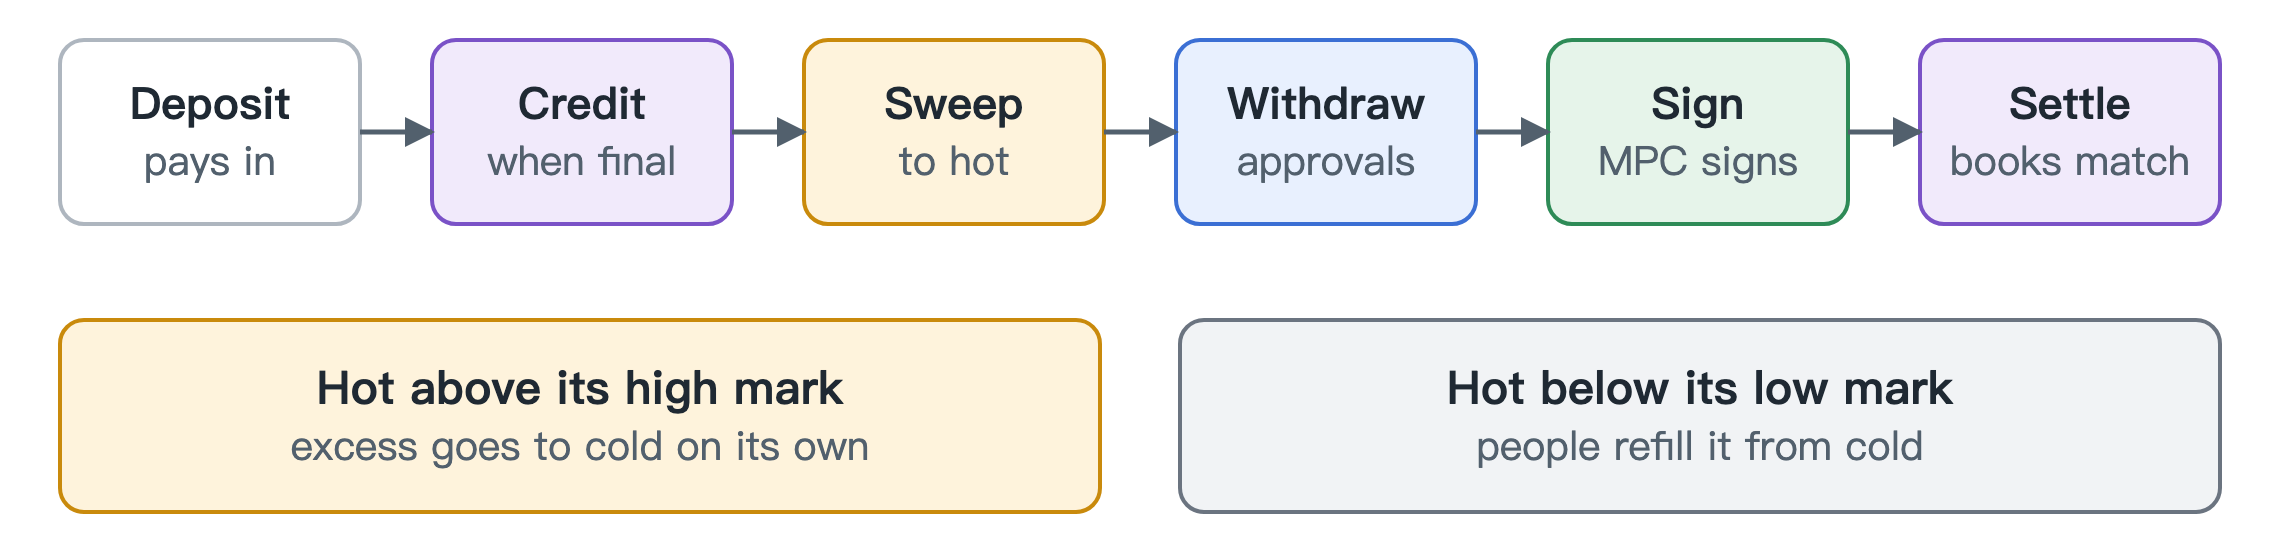
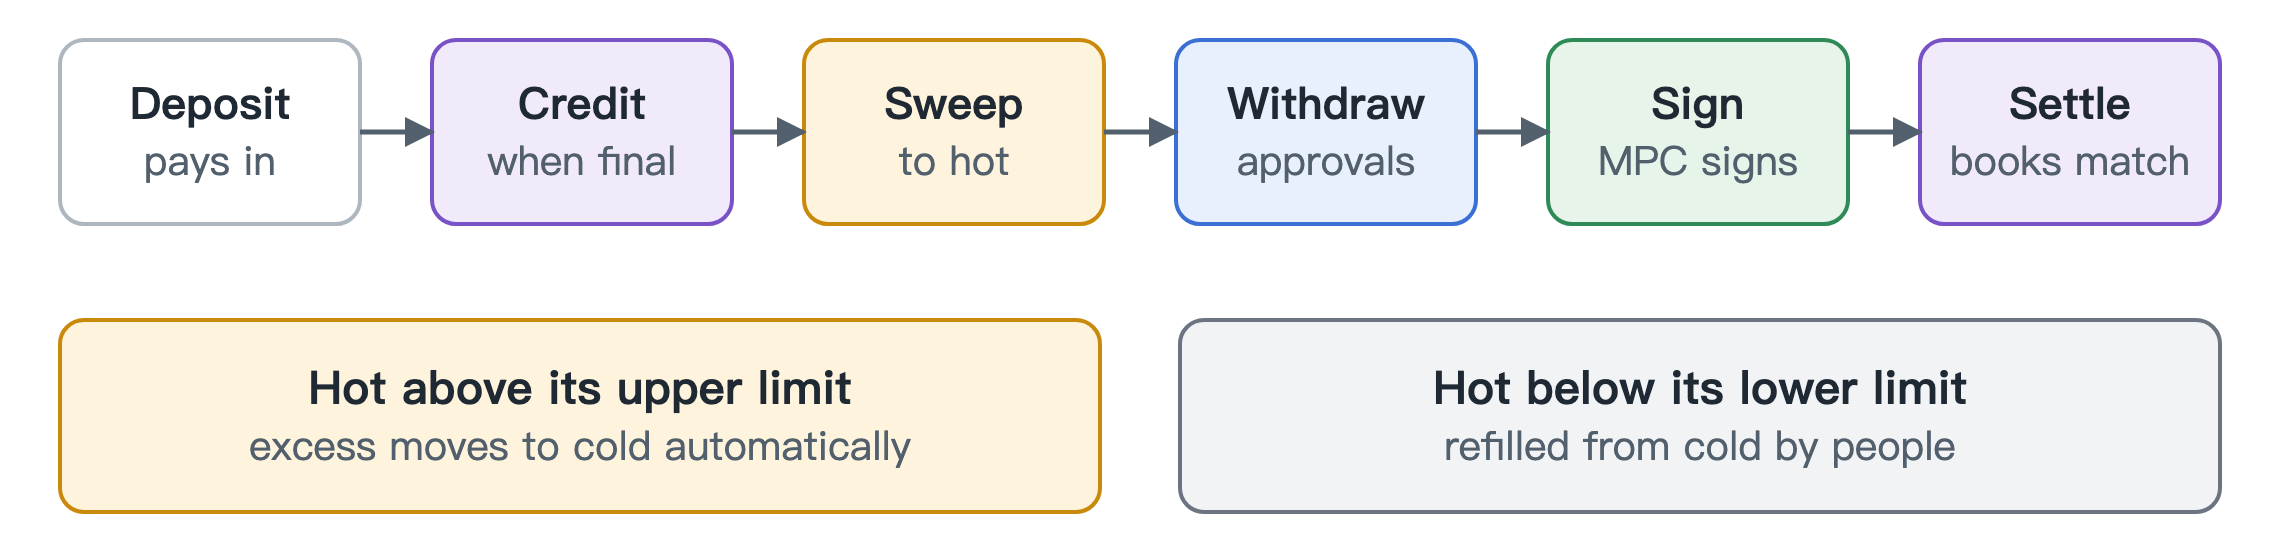
Docs: say upper and lower limit instead of high and low mark (diagrams and tiers page)

diff --git a/docs/images/build.py b/docs/images/build.py
@@ -50,8 +50,8 @@ ZH = {
     "Withdraw": "提现", "approvals": "审批",
     "Sign": "签名", "MPC signs": "MPC 签名",
     "Settle": "结算", "books match": "账链一致",
-    "Hot above its high mark": "热钱包高于上限", "excess goes to cold on its own": "多出的部分自动转冷",
-    "Hot below its low mark": "热钱包低于下限", "people refill it from cold": "由人从冷钱包补充",
+    "Hot above its upper limit": "热钱包高于上限", "excess moves to cold automatically": "多出的部分自动转冷",
+    "Hot below its lower limit": "热钱包低于下限", "refilled from cold by people": "由人从冷钱包补充",
     # identity
     "Person": "人", "logs in with a passkey": "用通行密钥登录",
     "Identity provider": "身份提供方", "signs a token": "签发令牌",
@@ -84,8 +84,8 @@ ZH = {
     "Bitcoin, Solana deposit addresses": "Bitcoin、Solana 存款地址",
     # tiers
     "Hot wallet": "热钱包", "signs all day": "整天签名", "Cold storage": "冷钱包", "key stays offline": "密钥离线",
-    "above high mark": "高于上限", "moves on its own": "自动转冷",
-    "below low mark": "低于下限", "Air gap": "隔离网络", "M of N operators approve": "N 人中 M 人批准",
+    "above upper limit: moves automatically": "高于上限：自动转冷",
+    "below lower limit: refilled by people": "低于下限：由人补充", "Air gap": "隔离网络", "M of N operators approve": "N 人中 M 人批准",
     "refill file": "补充文件",
     # evm
     "Factory": "工厂合约", "owned by the cold key": "归冷密钥所有",
@@ -212,8 +212,8 @@ def flow():
     row(d, [("Deposit", "pays in", "white"), ("Credit", "when final", "purple"), ("Sweep", "to hot", "amber"),
             ("Withdraw", "approvals", "blue"), ("Sign", "MPC signs", "green"), ("Settle", "books match", "purple")],
         y=20, h=92, gap=36, size=22)
-    cards(d, [("Hot above its high mark", "excess goes to cold on its own", "amber"),
-              ("Hot below its low mark", "people refill it from cold", "gray")], 160, h=96, gap=40)
+    cards(d, [("Hot above its upper limit", "excess moves to cold automatically", "amber"),
+              ("Hot below its lower limit", "refilled from cold by people", "gray")], 160, h=96, gap=40)
     d.write()
 
 
@@ -322,8 +322,8 @@ def tiers():
     d = D("tiers", 1140, 300)
     d.box(30, 40, 290, 120, "Hot wallet", "signs all day", "amber")
     d.box(820, 40, 290, 120, "Cold storage", "key stays offline", "blue")
-    d.arrow(320, 70, 820, 70, "above high mark: moves on its own", ly=58)
-    d.arrow(820, 130, 320, 130, "below low mark: refill by people", ly=122)
+    d.arrow(320, 70, 820, 70, "above upper limit: moves automatically", ly=58)
+    d.arrow(820, 130, 320, 130, "below lower limit: refilled by people", ly=122)
     d.box(430, 190, 280, 80, "Air gap", "M of N operators approve", "gray", size=22)
     d.arrow(570, 190, 570, 138, "", dash=True)
     d.write()

diff --git a/docs/tiers.md b/docs/tiers.md
@@ -4,16 +4,16 @@
 
 A hot wallet signs all day, so it holds only what the day needs. The rest sits in cold storage, whose key lives offline. Think of a shop's till and its safe.
 
-<p align="center"><img src="images/tiers.png" width="60%" alt="Above its high mark a hot wallet sends the excess to cold on its own. Below its low mark it asks for a refill, which people carry across an air gap."></p>
+<p align="center"><img src="images/tiers.png" width="60%" alt="Above its upper limit a hot wallet moves the excess to cold automatically. Below its lower limit it asks for a refill, which people carry across an air gap."></p>
 
 ## Bands decide when to move
-Each hot wallet has a low mark, a high mark and a target.
+Each hot wallet has a lower limit, an upper limit and a target.
 
 | Hot balance | What the system does |
 |---|---|
-| Above the high mark | Moves the excess down to the target, into cold |
-| Between the marks | Nothing |
-| Below the low mark | Raises one alert and opens a refill request |
+| Above the upper limit | Moves the excess down to the target, into cold |
+| Between the limits | Nothing |
+| Below the lower limit | Raises one alert and opens a refill request |
 
 ## Hot to cold needs no approval
 The cold address is written into the signing zone's own config, which the business side cannot change. A move can only send coins somewhere safer, so a hijacked core still cannot send "cold" money elsewhere.
